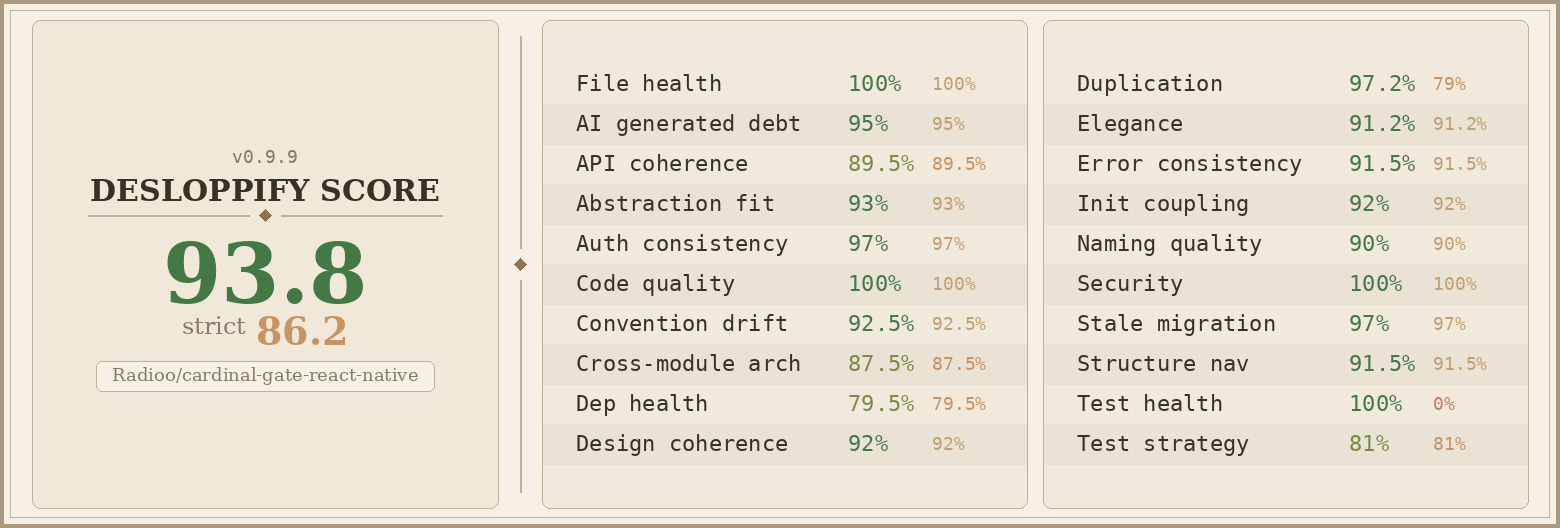
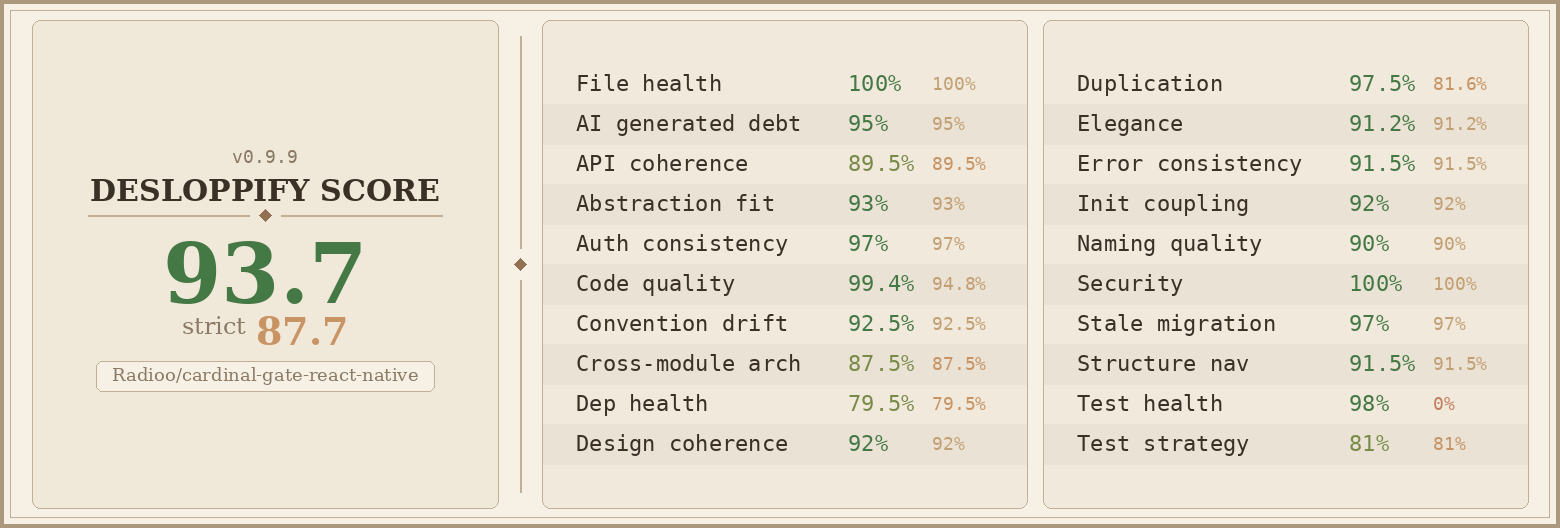
desloppify: fix service layer boundaries, test quality, and dep cleanup
- Decouple lib/notifications.ts from store (registerToastHandler callback)
- Decouple services/api.ts from expo-router (setOnUnauthorized callback)
- Extract getIidxChartScreenshotUrl to services/game.ts
- Remove unused @react-navigation/drawer dependency
- Fix secure-storage.ts unnecessary async keyword
- Replace queryCache internal assertions with fetchApi behavior assertions
- Replace RCTScrollView type assertions with UNSAFE_getByType(ScrollView)
- Add JSDoc to ApiImage clarifying auth lifecycle
- Document IIDX/SDVX pagination URL asymmetry

diff --git a/app/_layout.tsx b/app/_layout.tsx
@@ -1,6 +1,6 @@
 import '../global.css';
 
-import {ErrorBoundaryProps, Stack} from 'expo-router';
+import {ErrorBoundaryProps, router, Stack} from 'expo-router';
 import {GestureHandlerRootView} from "react-native-gesture-handler";
 import Toaster from "@/components/shared/Toaster";
 import {ThemeProvider} from "@react-navigation/native";
@@ -15,10 +15,13 @@ import {queryClient} from "@/services/query-client";
 import {getNavTheme} from "@/lib/theme";
 import {useColorScheme, vars} from "nativewind";
 import {useThemeStore} from "@/store/theme";
+import {useToastStore} from "@/store/toast";
 import {buildPrimaryColorVars} from "@/lib/color-utils";
 import {useEffect, useLayoutEffect, useMemo} from "react";
 import {PortalHost} from "@rn-primitives/portal";
 import GradientBackground from "@/components/shared/GradientBackground";
+import {registerToastHandler} from "@/lib/notifications";
+import {setOnUnauthorized} from "@/services/api";
 
 export function ErrorBoundary({ error, retry }: ErrorBoundaryProps) {
     return (
@@ -38,6 +41,11 @@ export default function Layout() {
     useLayoutEffect(() => {
         setColorScheme(systemColorScheme === 'dark' ? 'dark' : 'light');
     }, [systemColorScheme, setColorScheme]);
+
+    useEffect(() => {
+        registerToastHandler(useToastStore.getState().addToast);
+        setOnUnauthorized(() => router.replace('/login'));
+    }, []);
 
     useEffect(() => {
         if (Platform.OS === 'web') {

diff --git a/__tests__/hooks/queries/useSdvxPlays.test.ts b/__tests__/hooks/queries/useSdvxPlays.test.ts
@@ -6,11 +6,12 @@ jest.mock('@/services/api', () => ({
 import React from 'react';
 import useSdvxPlays from '@/hooks/queries/useSdvxPlays';
 import {createTestClient, renderWithClient} from '@/__tests__/helpers/renderWithClient';
+import {fetchApi} from '@/services/api';
 
-function TestComponent({page, onResult}: {page: number; onResult: (data: {queryKey: unknown}) => void}) {
+function TestComponent({page, onResult}: {page: number; onResult: () => void}) {
     const result = useSdvxPlays(page);
     React.useEffect(() => {
-        onResult({queryKey: result.isSuccess || result.isPending ? 'called' : 'error'});
+        onResult();
     }, [result, onResult]);
     return React.createElement('Text', null, 'test');
 }
@@ -22,10 +23,7 @@ describe('useSdvxPlays', () => {
             client,
             React.createElement(TestComponent, {page: 1, onResult: () => {}})
         );
-        const queryCache = client.getQueryCache();
-        const queries = queryCache.getAll();
-        expect(queries.length).toBeGreaterThan(0);
-        expect(queries[0].queryKey).toEqual(['sdvxPlays', 1]);
+        expect(fetchApi).toHaveBeenCalledWith('/api2/sdvx/plays?page=1');
         client.cancelQueries();
         tree.unmount();
         client.clear();

diff --git a/__tests__/hooks/queries/useIidxPlays.test.ts b/__tests__/hooks/queries/useIidxPlays.test.ts
@@ -6,11 +6,12 @@ jest.mock('@/services/api', () => ({
 import React from 'react';
 import useIidxPlays from '@/hooks/queries/useIidxPlays';
 import {createTestClient, renderWithClient} from '@/__tests__/helpers/renderWithClient';
+import {fetchApi} from '@/services/api';
 
-function TestComponent({page, onResult}: {page: number; onResult: (data: {queryKey: unknown}) => void}) {
+function TestComponent({page, onResult}: {page: number; onResult: () => void}) {
     const result = useIidxPlays(page);
     React.useEffect(() => {
-        onResult({queryKey: result.isSuccess || result.isPending ? 'called' : 'error'});
+        onResult();
     }, [result, onResult]);
     return React.createElement('Text', null, 'test');
 }
@@ -22,10 +23,7 @@ describe('useIidxPlays', () => {
             client,
             React.createElement(TestComponent, {page: 1, onResult: () => {}})
         );
-        const queryCache = client.getQueryCache();
-        const queries = queryCache.getAll();
-        expect(queries.length).toBeGreaterThan(0);
-        expect(queries[0].queryKey).toEqual(['iidxPlays', 1]);
+        expect(fetchApi).toHaveBeenCalledWith('/api2/iidx/plays/1');
         client.cancelQueries();
         tree.unmount();
         client.clear();

diff --git a/__tests__/hooks/queries/useIidxProfile.test.ts b/__tests__/hooks/queries/useIidxProfile.test.ts
@@ -6,11 +6,12 @@ jest.mock('@/services/api', () => ({
 import React from 'react';
 import useIidxProfile from '@/hooks/queries/useIidxProfile';
 import {createTestClient, renderWithClient} from '@/__tests__/helpers/renderWithClient';
+import {fetchApi} from '@/services/api';
 
-function TestComponent({onResult}: {onResult: (data: {queryKey: unknown}) => void}) {
+function TestComponent({onResult}: {onResult: () => void}) {
     const result = useIidxProfile();
     React.useEffect(() => {
-        onResult({queryKey: result.isSuccess || result.isPending ? 'called' : 'error'});
+        onResult();
     }, [result, onResult]);
     return React.createElement('Text', null, 'test');
 }
@@ -22,10 +23,7 @@ describe('useIidxProfile', () => {
             client,
             React.createElement(TestComponent, {onResult: () => {}})
         );
-        const queryCache = client.getQueryCache();
-        const queries = queryCache.getAll();
-        expect(queries.length).toBeGreaterThan(0);
-        expect(queries[0].queryKey).toEqual(['iidxProfile']);
+        expect(fetchApi).toHaveBeenCalledWith('/api2/iidx/profile');
         client.cancelQueries();
         tree.unmount();
         client.clear();

diff --git a/__tests__/hooks/queries/useSdvxProfile.test.ts b/__tests__/hooks/queries/useSdvxProfile.test.ts
@@ -6,11 +6,12 @@ jest.mock('@/services/api', () => ({
 import React from 'react';
 import useSdvxProfile from '@/hooks/queries/useSdvxProfile';
 import {createTestClient, renderWithClient} from '@/__tests__/helpers/renderWithClient';
+import {fetchApi} from '@/services/api';
 
-function TestComponent({onResult}: {onResult: (data: {queryKey: unknown}) => void}) {
+function TestComponent({onResult}: {onResult: () => void}) {
     const result = useSdvxProfile();
     React.useEffect(() => {
-        onResult({queryKey: result.isSuccess || result.isPending ? 'called' : 'error'});
+        onResult();
     }, [result, onResult]);
     return React.createElement('Text', null, 'test');
 }
@@ -22,10 +23,7 @@ describe('useSdvxProfile', () => {
             client,
             React.createElement(TestComponent, {onResult: () => {}})
         );
-        const queryCache = client.getQueryCache();
-        const queries = queryCache.getAll();
-        expect(queries.length).toBeGreaterThan(0);
-        expect(queries[0].queryKey).toEqual(['sdvxProfile']);
+        expect(fetchApi).toHaveBeenCalledWith('/api2/sdvx/profile');
         client.cancelQueries();
         tree.unmount();
         client.clear();

diff --git a/__tests__/hooks/queries/useGdProfile.test.ts b/__tests__/hooks/queries/useGdProfile.test.ts
@@ -6,11 +6,12 @@ jest.mock('@/services/api', () => ({
 import React from 'react';
 import useGdProfile from '@/hooks/queries/useGdProfile';
 import {createTestClient, renderWithClient} from '@/__tests__/helpers/renderWithClient';
+import {fetchApi} from '@/services/api';
 
-function TestComponent({onResult}: {onResult: (data: {queryKey: unknown}) => void}) {
+function TestComponent({onResult}: {onResult: () => void}) {
     const result = useGdProfile();
     React.useEffect(() => {
-        onResult({queryKey: result.isSuccess || result.isPending ? 'called' : 'error'});
+        onResult();
     }, [result, onResult]);
     return React.createElement('Text', null, 'test');
 }
@@ -22,10 +23,7 @@ describe('useGdProfile', () => {
             client,
             React.createElement(TestComponent, {onResult: () => {}})
         );
-        const queryCache = client.getQueryCache();
-        const queries = queryCache.getAll();
-        expect(queries.length).toBeGreaterThan(0);
-        expect(queries[0].queryKey).toEqual(['gdProfile']);
+        expect(fetchApi).toHaveBeenCalledWith('/api2/gd/profile');
         client.cancelQueries();
         tree.unmount();
         client.clear();

diff --git a/__tests__/hooks/queries/useSummary.test.ts b/__tests__/hooks/queries/useSummary.test.ts
@@ -6,11 +6,12 @@ jest.mock('@/services/api', () => ({
 import React from 'react';
 import useSummary from '@/hooks/queries/useSummary';
 import {createTestClient, renderWithClient} from '@/__tests__/helpers/renderWithClient';
+import {fetchApi} from '@/services/api';
 
-function TestComponent({onResult}: {onResult: (data: {queryKey: unknown}) => void}) {
+function TestComponent({onResult}: {onResult: () => void}) {
     const result = useSummary();
     React.useEffect(() => {
-        onResult({queryKey: result.isSuccess || result.isPending ? 'called' : 'error'});
+        onResult();
     }, [result, onResult]);
     return React.createElement('Text', null, 'test');
 }
@@ -22,10 +23,7 @@ describe('useSummary', () => {
             client,
             React.createElement(TestComponent, {onResult: () => {}})
         );
-        const queryCache = client.getQueryCache();
-        const queries = queryCache.getAll();
-        expect(queries.length).toBeGreaterThan(0);
-        expect(queries[0].queryKey).toEqual(['summary']);
+        expect(fetchApi).toHaveBeenCalledWith('/api2/summary');
         client.cancelQueries();
         tree.unmount();
         client.clear();

diff --git a/__tests__/hooks/queries/useUserData.test.ts b/__tests__/hooks/queries/useUserData.test.ts
@@ -6,11 +6,12 @@ jest.mock('@/services/api', () => ({
 import React from 'react';
 import useUserData from '@/hooks/queries/useUserData';
 import {createTestClient, renderWithClient} from '@/__tests__/helpers/renderWithClient';
+import {fetchApi} from '@/services/api';
 
-function TestComponent({onResult}: {onResult: (data: {queryKey: unknown}) => void}) {
+function TestComponent({onResult}: {onResult: () => void}) {
     const result = useUserData();
     React.useEffect(() => {
-        onResult({queryKey: result.isSuccess || result.isPending ? 'called' : 'error'});
+        onResult();
     }, [result, onResult]);
     return React.createElement('Text', null, 'test');
 }
@@ -22,10 +23,7 @@ describe('useUserData', () => {
             client,
             React.createElement(TestComponent, {onResult: () => {}})
         );
-        const queryCache = client.getQueryCache();
-        const queries = queryCache.getAll();
-        expect(queries.length).toBeGreaterThan(0);
-        expect(queries[0].queryKey).toEqual(['userData']);
+        expect(fetchApi).toHaveBeenCalledWith('/api2/me');
         client.cancelQueries();
         tree.unmount();
         client.clear();

diff --git a/services/api.ts b/services/api.ts
@@ -1,12 +1,28 @@
 import {buildAuthRequestInit} from "@/services/auth-headers";
 import {clearSession} from "@/services/auth";
-import {router} from "expo-router";
 import {API_URL} from "@/services/env";
 
 type FetchApiOptions = {
     skipRootUrl?: boolean;
     skipAuth?: boolean;
 };
+
+export class SessionExpiredError extends Error {
+    constructor() {
+        super('Session expired');
+        this.name = 'SessionExpiredError';
+    }
+}
+
+let _onUnauthorized: (() => void) | null = null;
+
+/**
+ * Register a handler for 401 responses. Called once from the app layout
+ * so the service layer never imports a navigation framework directly.
+ */
+export function setOnUnauthorized(handler: () => void) {
+    _onUnauthorized = handler;
+}
 
 async function baseFetch(
     endpoint: string,
@@ -20,8 +36,8 @@ async function baseFetch(
 
     if (response.status === 401) {
         await clearSession();
-        router.replace('/login');
-        throw new Error('Session expired');
+        _onUnauthorized?.();
+        throw new SessionExpiredError();
     }
 
     if (!response.ok) {

diff --git a/components/iidx/IidxPlayRow.tsx b/components/iidx/IidxPlayRow.tsx
@@ -9,7 +9,7 @@ import {useState} from "react";
 import ShareImageModal from "@/components/shared/ShareImageModal";
 import {Card} from "@/components/ui/card";
 import IidxDifficultyItem from "@/components/iidx/IidxDifficultyItem";
-import {API_URL} from "@/services/env";
+import {getIidxChartScreenshotUrl} from "@/services/game";
 
 type IidxPlayRowProps = {
     play: IidxPlay;
@@ -21,7 +21,7 @@ export default function IidxPlayRow({play}: IidxPlayRowProps) {
 
     return (
         <Card className="border-primary bg-primary-surface gap-0 rounded-none p-1.5 shadow-none">
-            <ShareImageModal url={`${API_URL}/api2/iidx/chart_screenshot/${play.id}.png`} visible={modalVisible} onClose={() => setModalVisible(false)}/>
+            <ShareImageModal url={getIidxChartScreenshotUrl(play.id)} visible={modalVisible} onClose={() => setModalVisible(false)}/>
             <View className="gap-1.5">
                 <View className="flex-row items-center gap-2">
                     <Text className="text-base leading-6 flex-1" numberOfLines={1}>{play.name}</Text>

diff --git a/lib/notifications.ts b/lib/notifications.ts
@@ -1,6 +1,7 @@
 import {MessageSeverity} from "@/enums/message-severity";
-import {useToastStore} from "@/store/toast";
 import * as Haptics from 'expo-haptics';
+
+type AddToastFn = (toast: { severity: MessageSeverity; title: string; description: string }) => void;
 
 const titles: Record<MessageSeverity, string> = {
     [MessageSeverity.ERROR]: 'Error',
@@ -12,8 +13,18 @@ const hapticTypes: Record<MessageSeverity, Haptics.NotificationFeedbackType> = {
     [MessageSeverity.ERROR]: Haptics.NotificationFeedbackType.Error,
 };
 
+let _addToast: AddToastFn | null = null;
+
+/**
+ * Register the toast store's addToast function. Called once from the app layout
+ * so this module never imports from store/ directly.
+ */
+export function registerToastHandler(addToast: AddToastFn) {
+    _addToast = addToast;
+}
+
 export function displayMessage(severity: MessageSeverity, message: string) {
-    useToastStore.getState().addToast({
+    _addToast?.({
         severity,
         title: titles[severity],
         description: message,

diff --git a/__tests__/hooks/queries/useGdSkill.test.ts b/__tests__/hooks/queries/useGdSkill.test.ts
@@ -6,6 +6,7 @@ jest.mock('@/services/api', () => ({
 import React from 'react';
 import useGdSkill from '@/hooks/queries/useGdSkill';
 import {createTestClient, renderWithClient} from '@/__tests__/helpers/renderWithClient';
+import {fetchApi} from '@/services/api';
 
 function TestComponent({version, onResult}: {version: number | undefined; onResult: (data: {fetchStatus: string; isPending: boolean}) => void}) {
     const result = useGdSkill(version);
@@ -54,10 +55,7 @@ describe('useGdSkill', () => {
             client,
             React.createElement(TestComponent, {version: 10, onResult: () => {}})
         );
-        const queryCache = client.getQueryCache();
-        const queries = queryCache.getAll();
-        expect(queries.length).toBeGreaterThan(0);
-        expect(queries[0].queryKey).toEqual(['gdSkill', 10]);
+        expect(fetchApi).toHaveBeenCalledWith('/api2/gd/skill/10');
         client.cancelQueries();
         tree.unmount();
         client.clear();
